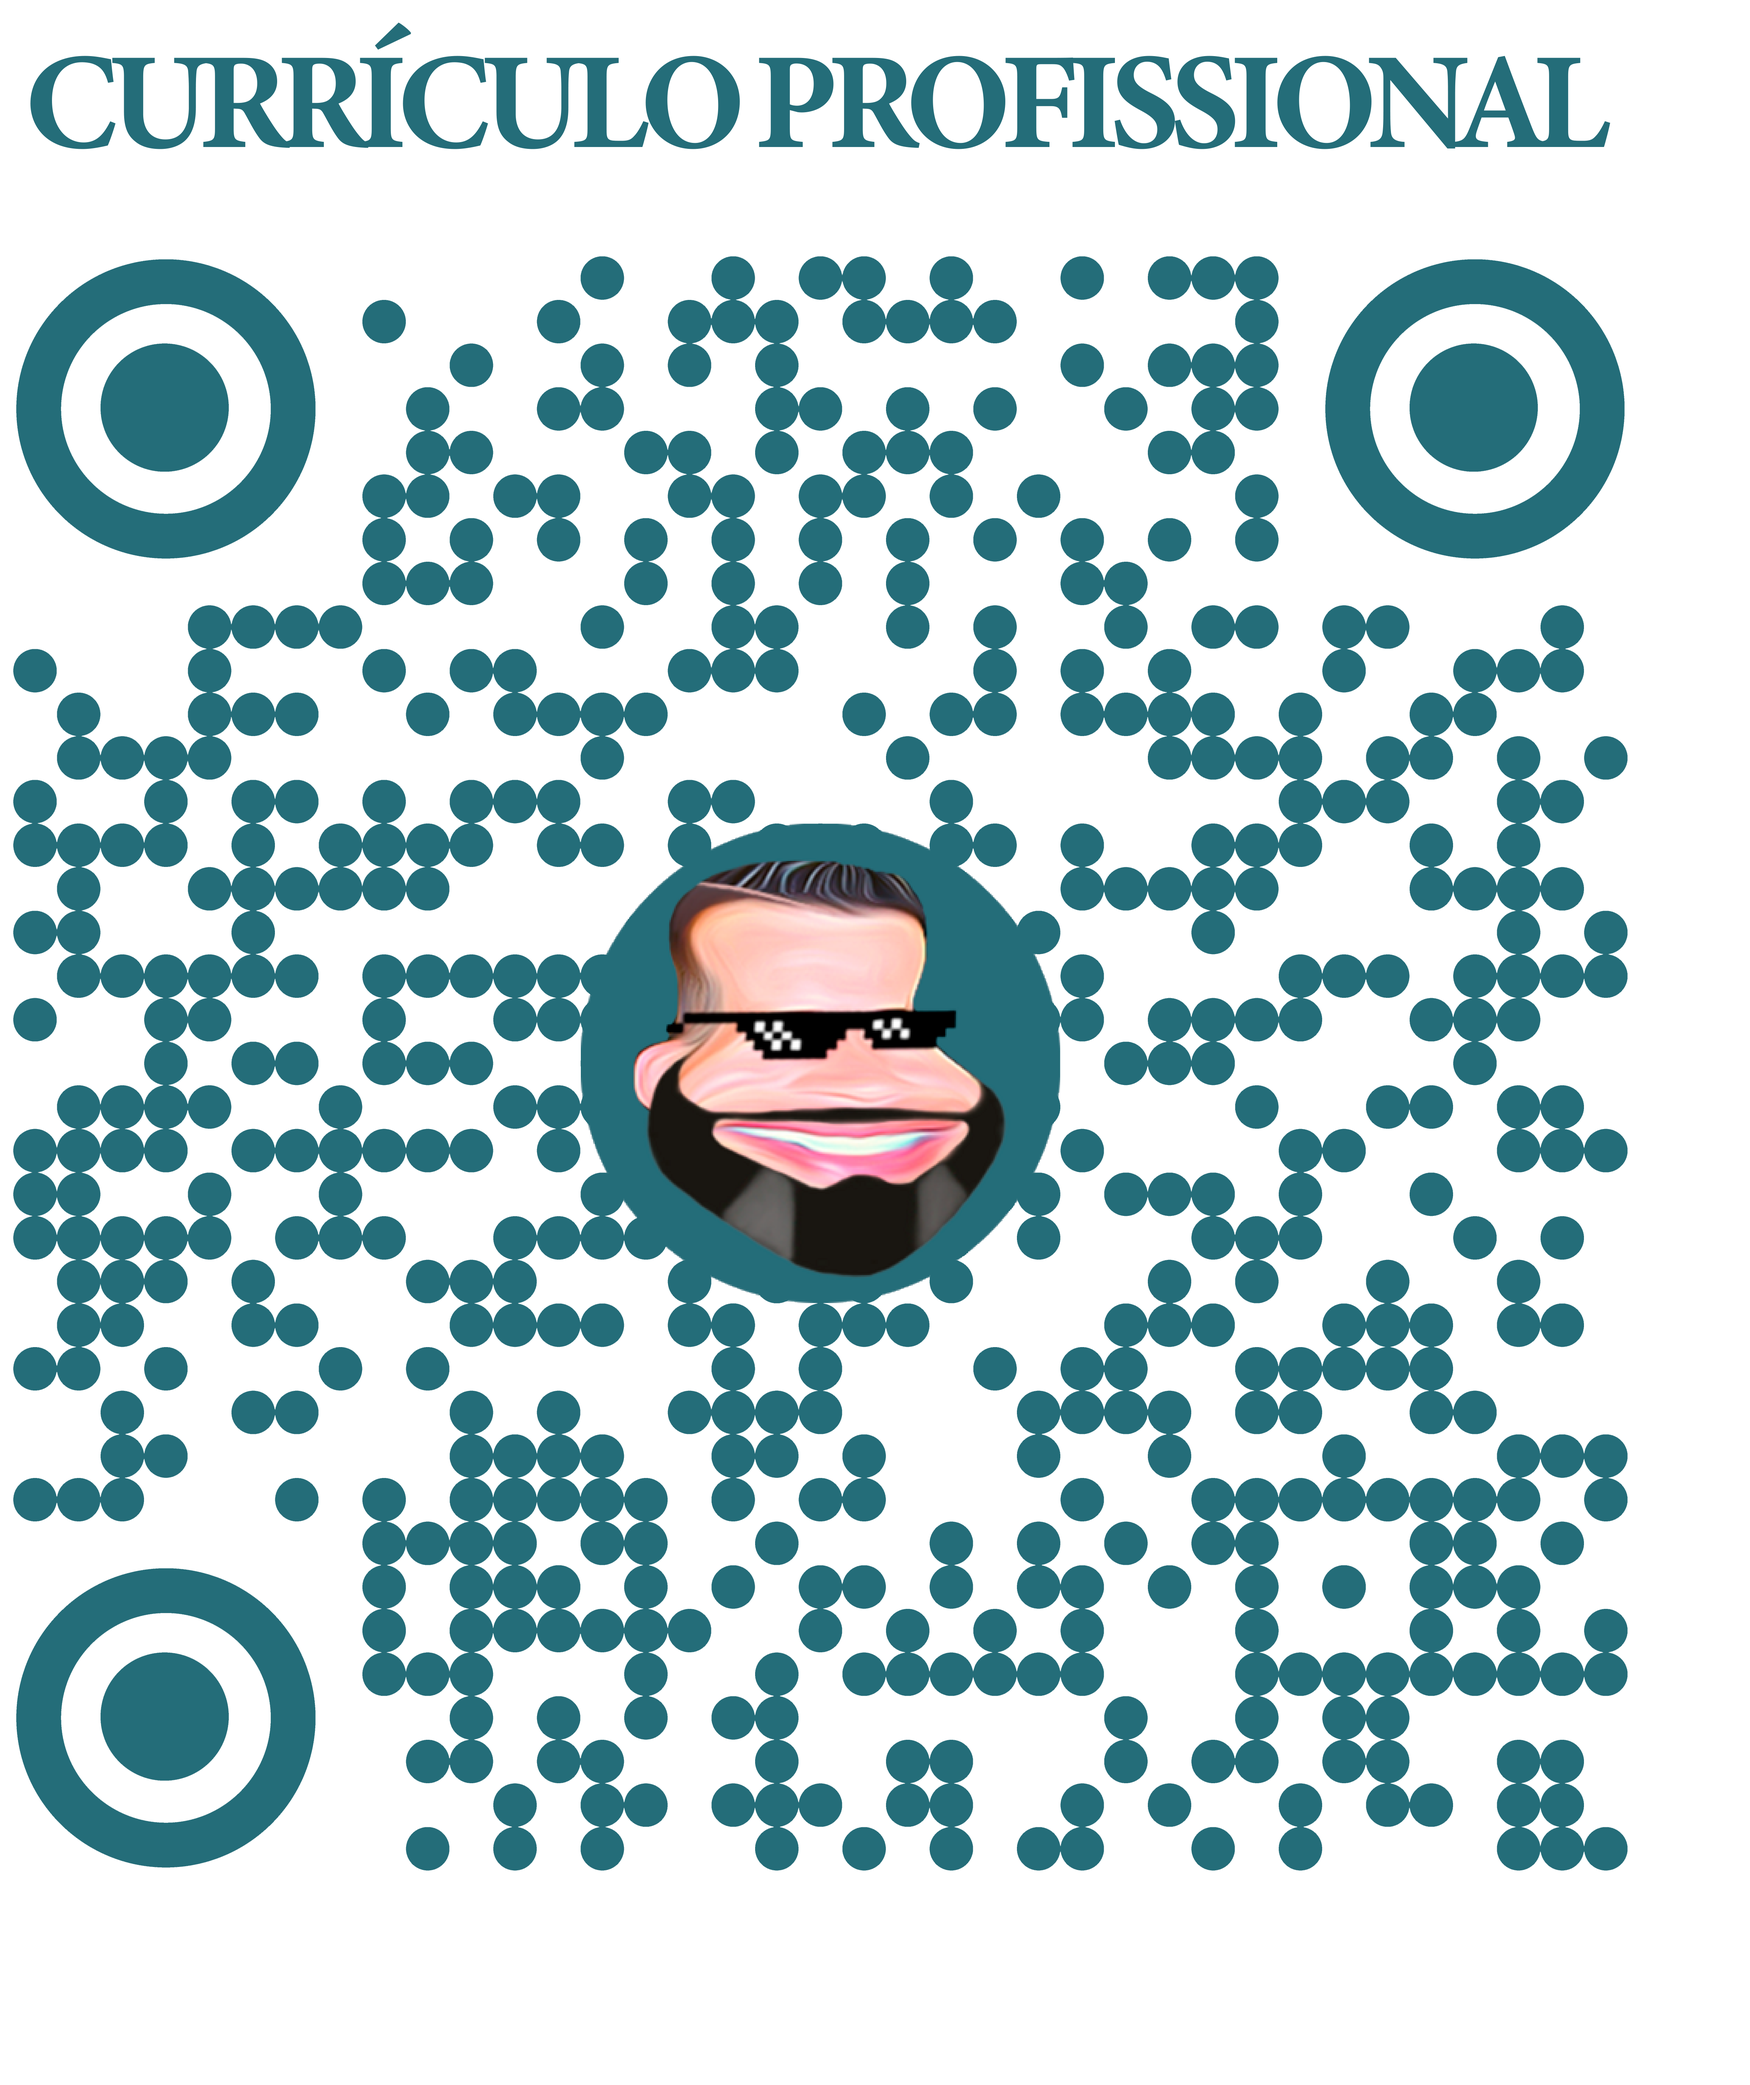
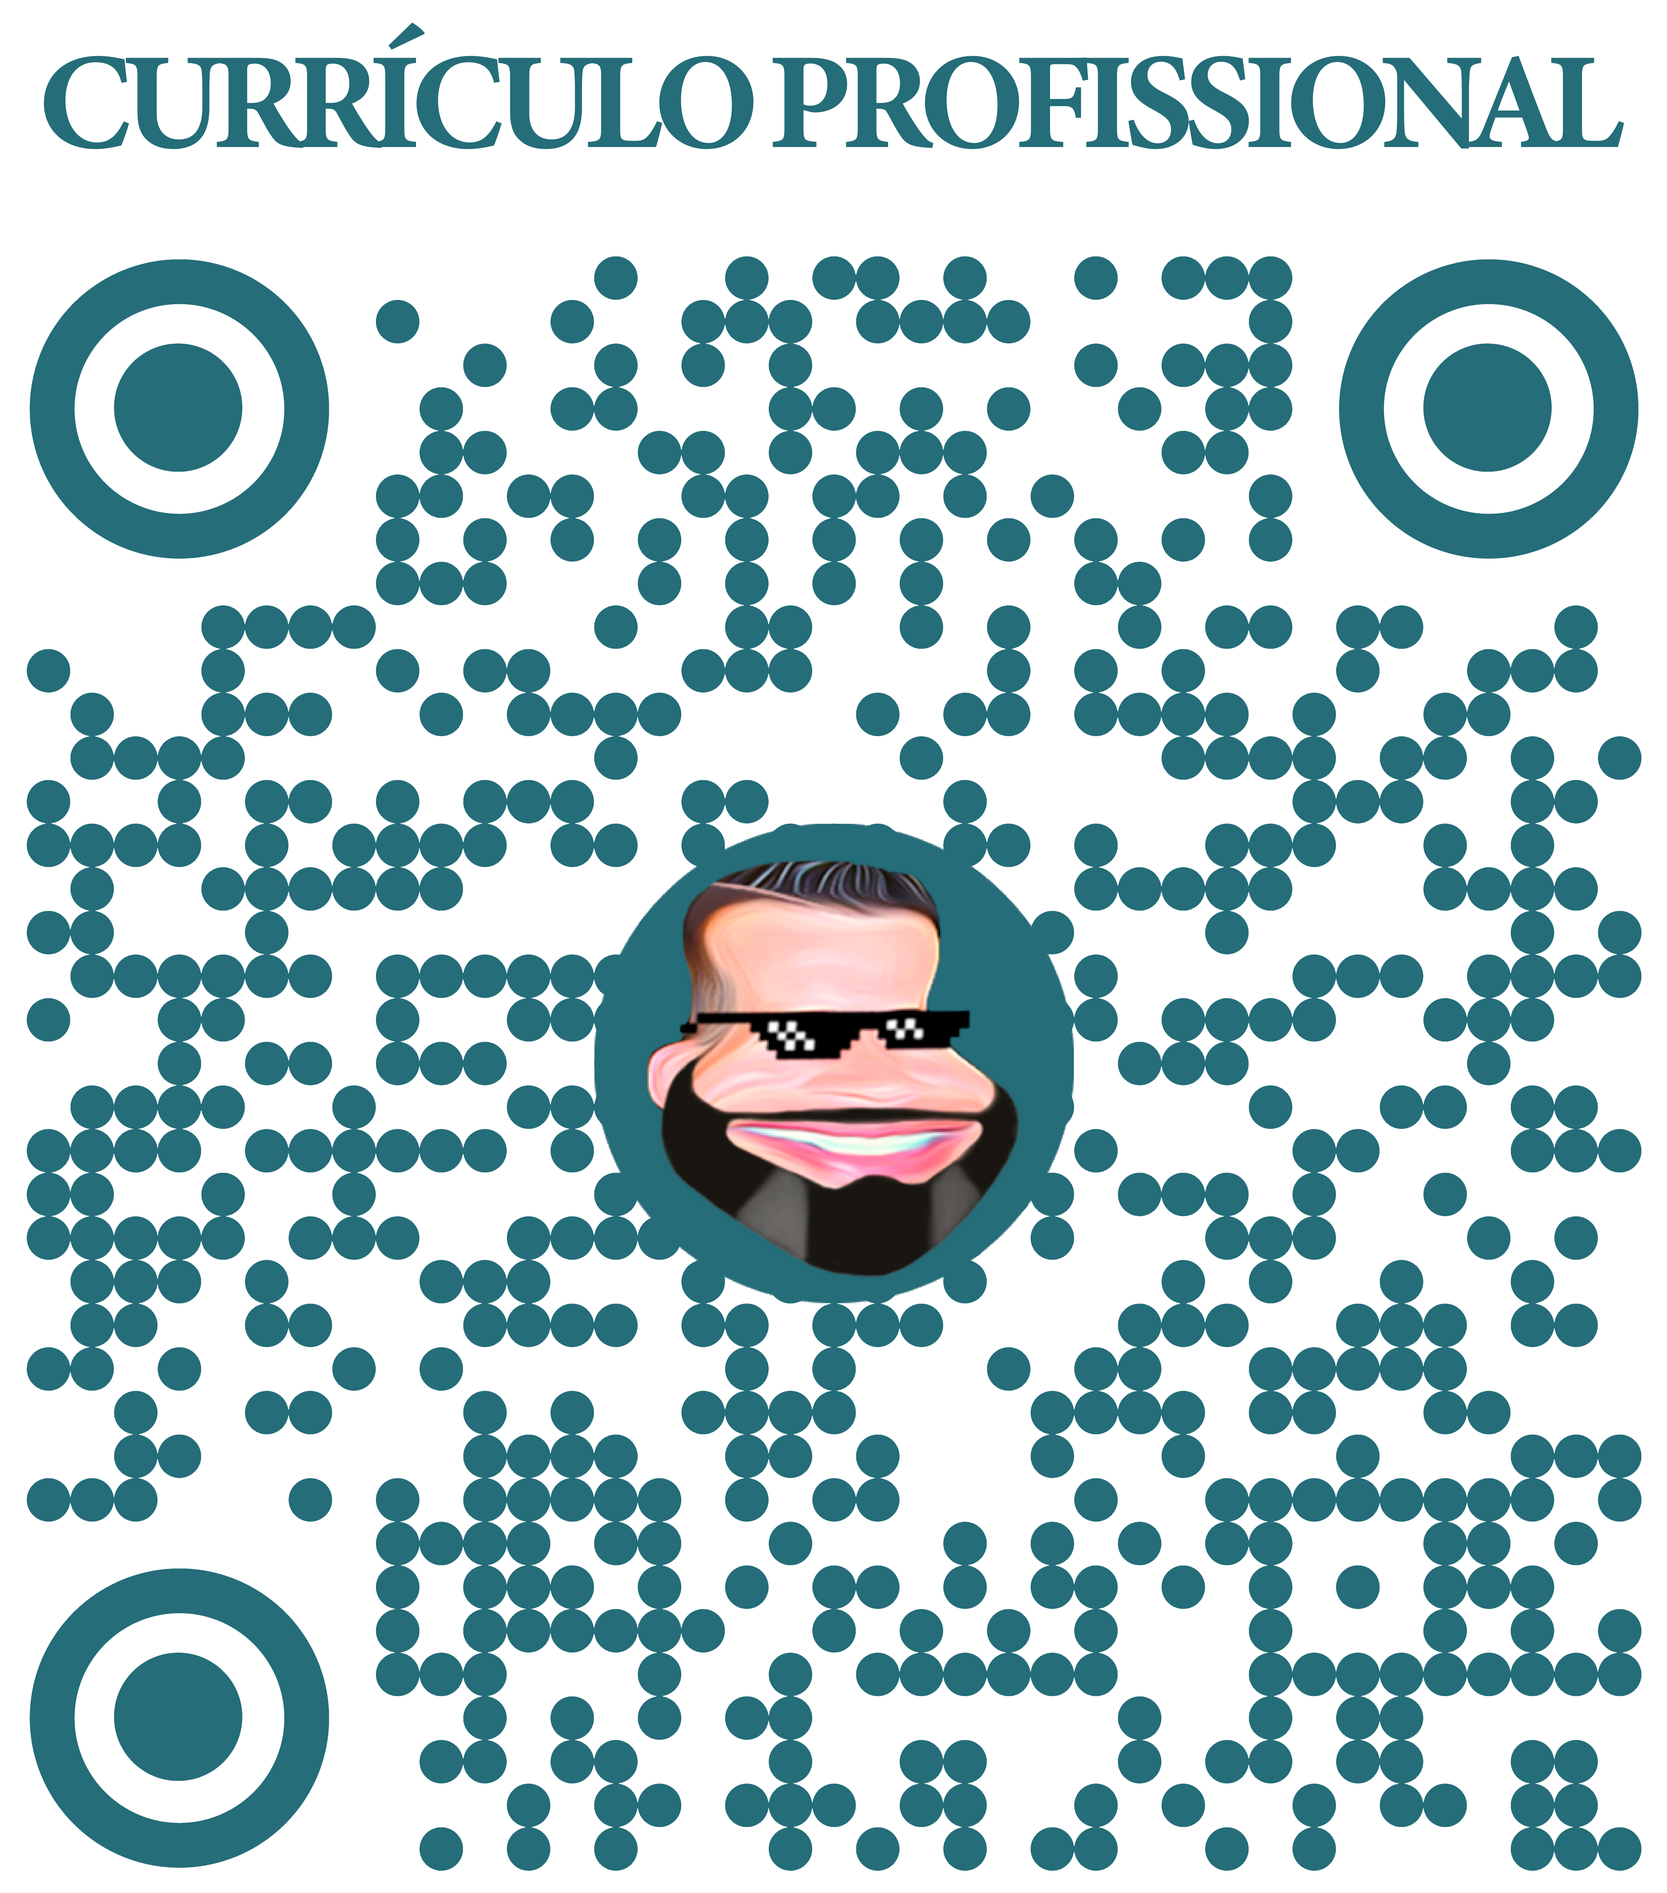
QR Code

diff --git a/docs/dados-pessoais.md b/docs/dados-pessoais.md
@@ -6,7 +6,7 @@
 
     !!! info " **Dados / Endereço / Contato**"
         * Brasileiro, divorciado, 43 anos, habilitado (AB)
-        * **Endereço:** Rua Icatu, nº. 2030 - Bloco 2, apartamento 207
+        * **Endereço:** Rua Icatu, nº. 2030 - Bloco 2, apto 207
         * **Bairro:** Morada do Sol
         * **Cidade:** São José dos Campos - SP
         * **CEP:** 12237-576
@@ -26,12 +26,9 @@
         * :material-facebook: [facebook.com/aleha.santos82](https://facebook.com/aleha.santos82){:target="_blank"}
         * :material-microsoft-internet-explorer: [www.alessandroroberto.com.br](https://www.alessandroroberto.com.br){:target="_blank"}
 
-=== "PCD (Laudo PCD e informações) :fontawesome-solid-wheelchair:"
+=== "PCD (Informações e laudo PCD) :fontawesome-solid-wheelchair:"
 
-    !!! info " **Laudo PCD e informações**"
-        * **Meu laudo PCD** :material-arrow-right-bold: [:fontawesome-regular-file-pdf: Download](documentos/pdf/PCD-DOCUMENTACAO-ARRS.pdf){:download="PCD-DOCUMENTACAO-ARRS.pdf"} para análise e apreciação.
-
-        ---
+    !!! info " **Informações e laudo PCD**"
         * **Informações acerca de minha deficiência**
             <p style="text-align: justify;"> Deficiência física decorrente e adquirida em função de acidente de trabalho, não havendo qualquer necessidade de condições especiais e/ou nenhuma utilização de próteses ou qualquer artifício que porventura possa e venha comprometer a minha mobilidade relacionada à minha deficiência física de coluna lombar.</p>
         ---
@@ -43,6 +40,9 @@
 
             CID G55.1: Compressões das raízes e dos plexos nervosos em transtornos dos discos intervertebrais.
         ---
+        * **Meu laudo PCD** :material-arrow-right-bold: [:fontawesome-regular-file-pdf: Download](documentos/pdf/PCD-DOCUMENTACAO-ARRS.pdf){:download="PCD-DOCUMENTACAO-ARRS.pdf"} para análise e apreciação.
+
+        ---
         * **Lei de Cotas para PCD (Lei 8.213/91 - Artigos 89 a 93)**
 
             [Clique aqui](https://www.planalto.gov.br/ccivil_03/leis/l8213cons.htm){:target="_blank"} e saiba mais.
@@ -53,6 +53,13 @@
         * Entre **R$ 2.700,00** a **R$ 3.700,00** (negociável) **+ Pacote de Benefícios**;
         * **Disponibilidade imediata:** Diurno - Noturno - Híbrido - Home Office.
         * **Atuação como PJ**, porém tal modalidade/contrato de trabalho deve ser extremamente atrativa financeiramente.
+
+=== "QR Code :material-qrcode-scan:"
+
+    !!! info "**QR Code - Acesse em seu celular**"
+        <div align="center">
+        <img src="../assets/images/qr-code.png" alt="QR Code" title="QR Code" width="275">
+        </div>
 
 <!-- Ícone Whatsapp. -->
 <!DOCTYPE html>
